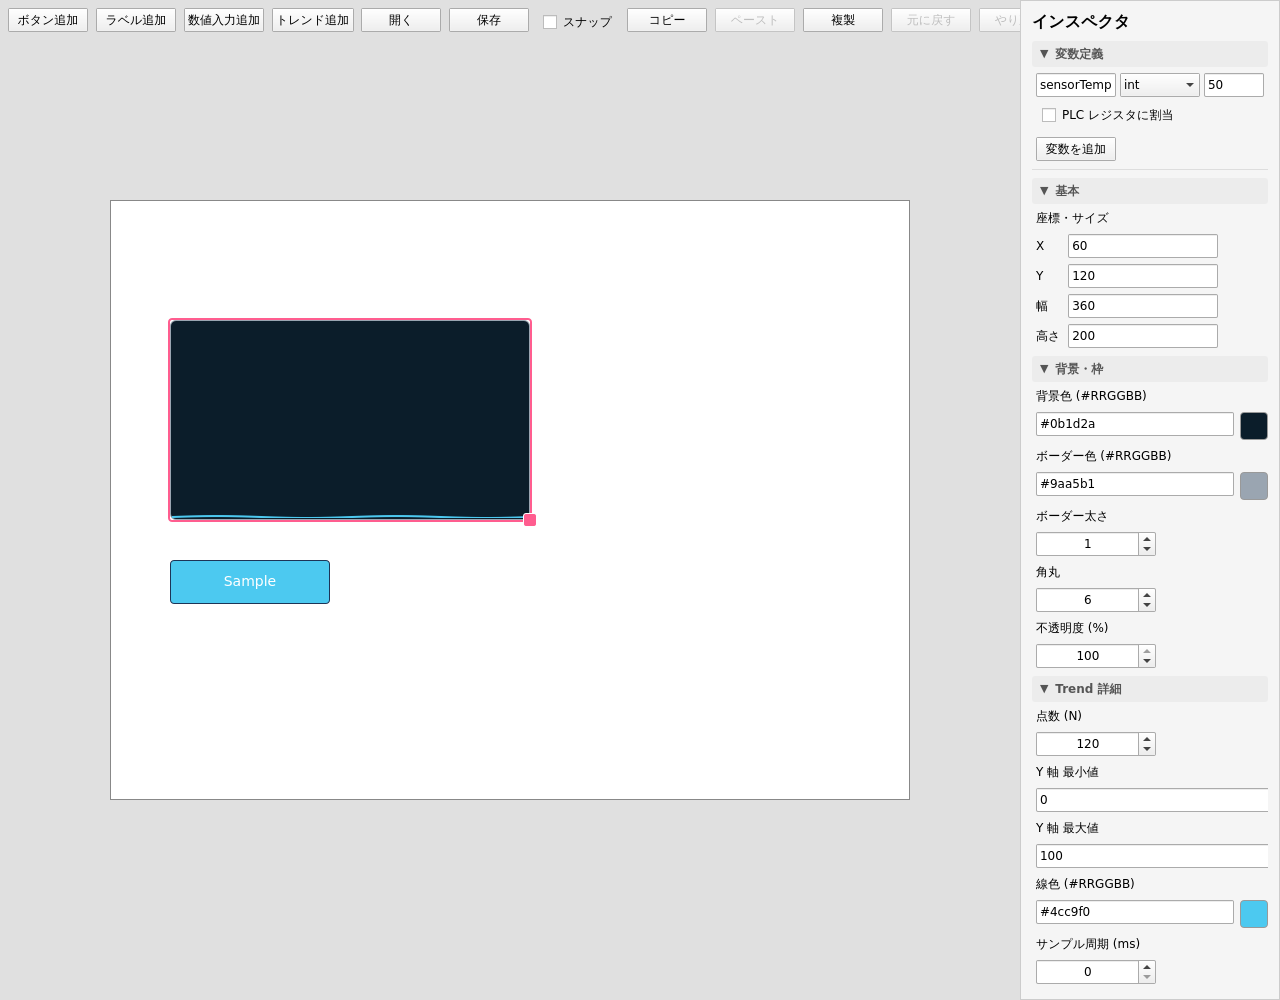
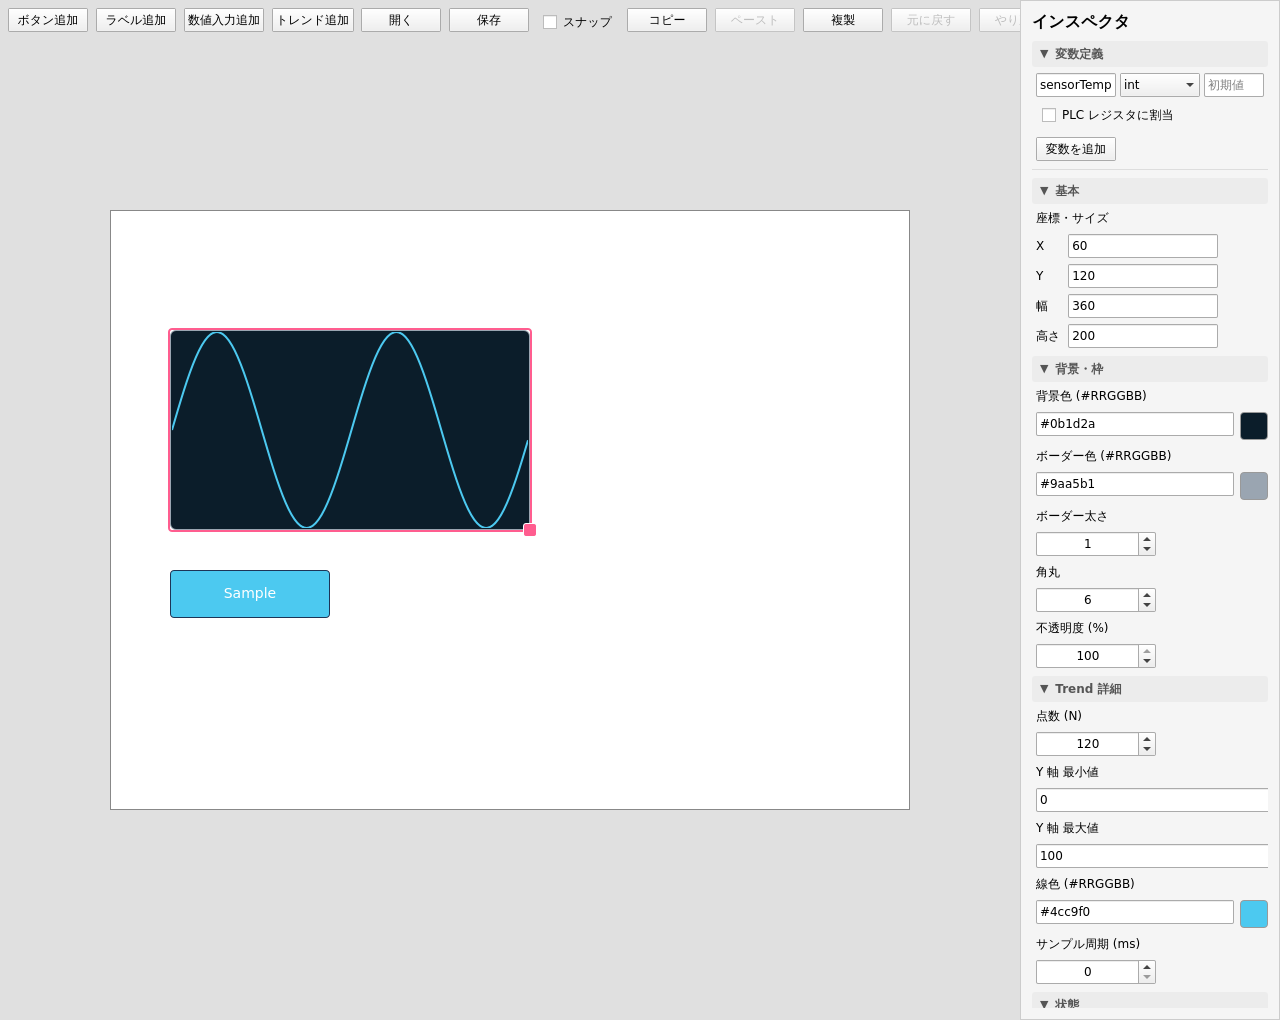
fix(T-C): Trend プレビュー波形を設定 Y 範囲へスケール（真っ黒に見える問題を修正）
固定 Y 軸（hasYMin/hasYMax）が設定された Trend で、Editor プレビューのダミー波形が
0..1 値のままだと範囲 0..100 等に対し下端へ潰れ「真っ黒な箱＋底辺の線」に見えていた。
Component.onCompleted のダミー波形を effective Y 範囲（両端指定があれば [yMin,yMax]、
無ければ [0,1]）へマップし、プレビューが常にグラフ高いっぱいの折れ線になるよう修正。
editor.png / task-tc 証跡を新しい見た目（フル高サイン波）へ撮り直し。

ctest 22/22 緑（プレビューのみの変更・サンプリング経路は不変）。

diff --git a/Shared/Widgets/qml/HmiTrend.qml b/Shared/Widgets/qml/HmiTrend.qml
@@ -246,9 +246,19 @@ Rectangle {
         if (!root.live) {
             var buf = [];
             var count = root.resolvedPointCount;
+            // ダミー波形は **設定中の Y 範囲いっぱい** に張る（固定 Y 軸が設定された Widget で
+            // 0..1 の波が下端へ潰れて「真っ黒な箱＋底辺の線」に見えるのを防ぐ）。両端指定が
+            // あれば [yMin, yMax]、無ければ [0, 1]（自動スケールがそのまま全高へ広げる）。
+            var effLo = root.hasYMin ? root.yMin : 0;
+            var effHi = root.hasYMax ? root.yMax : 1;
+            if (effHi <= effLo) {
+                effLo = 0;
+                effHi = 1;
+            }
             for (var i = 0; i < count; ++i) {
-                // 0..1 を行き来するサイン波（見た目のプレビュー用）。
-                buf.push(Math.sin(i / count * Math.PI * 4) * 0.5 + 0.5);
+                // 0..1 を行き来するサイン波を Y 範囲へマップ（見た目のプレビュー用）。
+                var t = Math.sin(i / count * Math.PI * 4) * 0.5 + 0.5;
+                buf.push(effLo + t * (effHi - effLo));
             }
             root._buffer = buf;
             canvas.requestPaint();
